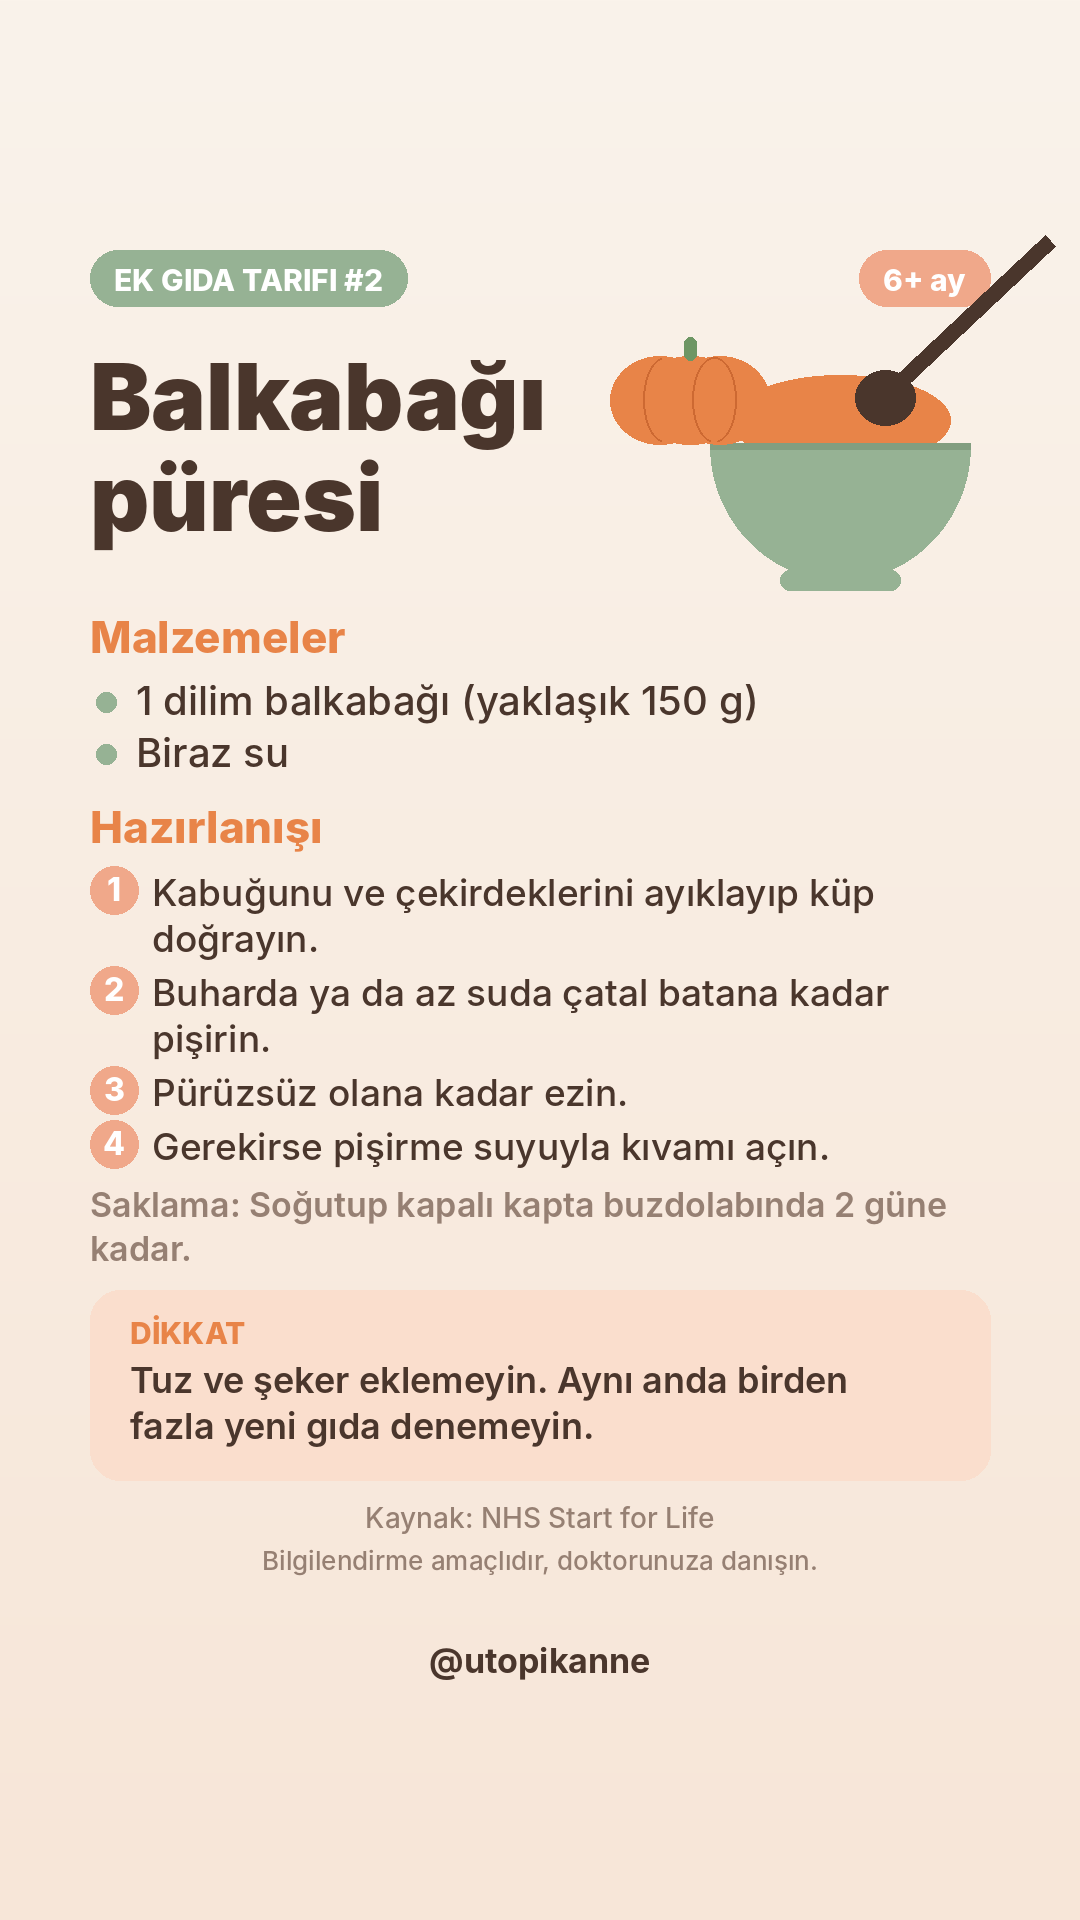
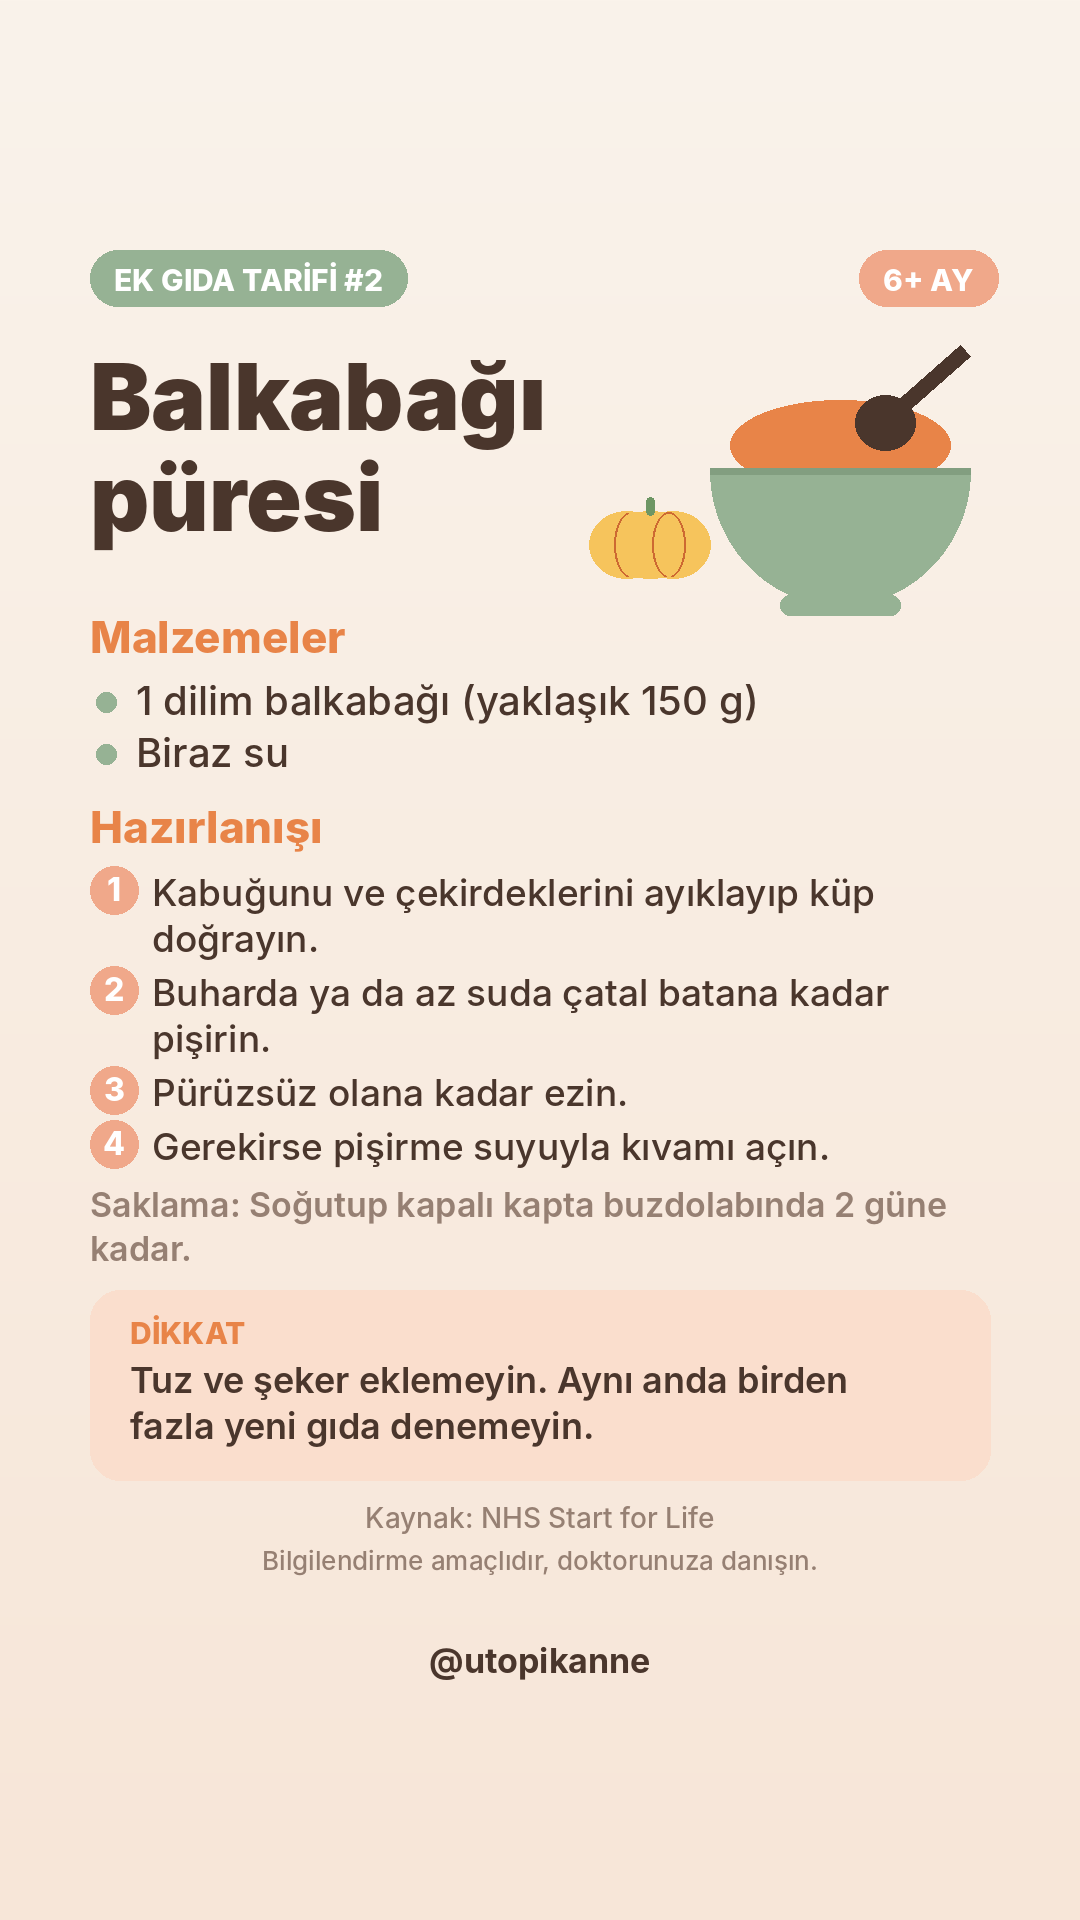
[utopikanne] kalite kontrol düzeltmeleri (Türkçe büyük harf, çizim, hitap)
Claude-Session: https://claude.ai/code/session_01QGX4XsoAgktVGkG1t26jL7

Changed region(s): [[0.55, 0.125, 0.9778, 0.3438]]

diff --git a/araclar/anne_story.py b/araclar/anne_story.py
@@ -105,7 +105,12 @@ def zemin(ust=KREM, alt=(246, 232, 220)):
     return img, d
 
 
+def tr_buyuk(t):
+    return t.replace("i", "İ").replace("ı", "I").upper()
+
+
 def etiket(d, x, y, text, bg=SEFTALI, fg=BEYAZ, s=30, center=False):
+    text = tr_buyuk(text)
     f = font("ExtraBold", s)
     w = d.textlength(text, font=f) + 48
     if center:
@@ -150,7 +155,7 @@ def kase(d, cx, cy, w=300, renk=ADACAYI, ici=TURUNCU):
     d.rectangle([cx - w / 2, cy + 13, cx + w / 2, cy + 19], fill=(130, 158, 128))
     d.rounded_rectangle([cx - 60, cy + 140, cx + 60, cy + 160], radius=10, fill=renk)
     # kaşık
-    d.line([(cx + 40, cy - 30), (cx + 210, cy - 190)], fill=KAHVE, width=16)
+    d.line([(cx + 40, cy - 30), (cx + 125, cy - 105)], fill=KAHVE, width=16)
     d.ellipse([cx + 15, cy - 60, cx + 75, cy - 5], fill=KAHVE)
 
 
@@ -164,7 +169,7 @@ def havuc(d, cx, cy, s=1.0):
 
 def balkabagi(d, cx, cy, s=1.0):
     for dx, ww in ((-55, 90), (55, 90), (0, 100)):
-        d.ellipse([cx + dx * s - ww * s, cy - 80 * s, cx + dx * s + ww * s, cy + 80 * s], fill=TURUNCU)
+        d.ellipse([cx + dx * s - ww * s, cy - 80 * s, cx + dx * s + ww * s, cy + 80 * s], fill=SARI)
     for dx in (-45, 45):
         d.arc([cx + dx * s - 40 * s, cy - 78 * s, cx + dx * s + 40 * s, cy + 78 * s], 100, 260 if dx < 0 else 440,
               fill=(205, 105, 50), width=int(5 * s))
@@ -230,13 +235,16 @@ def gunaydin(path, bilgi, kaynak, baslik="Günaydın"):
 
 def tarif_karti(path, seri, ay, baslik, malzemeler, adimlar, saklama, dikkat, kaynak, cizim="havuc"):
     img, d = zemin(KREM, (247, 230, 216))
-    etiket(d, 90, 250, seri.upper(), bg=ADACAYI)
+    etiket(d, 90, 250, seri, bg=ADACAYI)
     f = font("ExtraBold", 30)
     aw = d.textlength(ay, font=f) + 48
     etiket(d, 990 - aw, 250, ay, bg=SEFTALI)
     y = yaz(d, (90, 340), baslik, font("Black", 92), KAHVE, max_w=560, sp=1.1)
-    kase(d, 840, 430, w=260)
-    (havuc if cizim == "havuc" else balkabagi)(d, 690, 400, 0.55)
+    kase(d, 840, 455, w=260)
+    if cizim == "havuc":
+        havuc(d, 680, 430, 0.55)
+    else:
+        balkabagi(d, 650, 545, 0.42)
     y = max(y, 600) + 10
     # malzemeler
     d.text((90, y), "Malzemeler", font=font("ExtraBold", 44), fill=TURUNCU)
@@ -265,7 +273,7 @@ def tarif_karti(path, seri, ay, baslik, malzemeler, adimlar, saklama, dikkat, ka
 
 def hamilelik_haftasi(path, seri, hafta, boy, bilgi, ipucu, kaynak):
     img, d = zemin((248, 238, 232), (240, 222, 214))
-    etiket(d, 0, 250, seri.upper(), bg=ADACAYI, center=True)
+    etiket(d, 0, 250, seri, bg=ADACAYI, center=True)
     takvim(d, 540, 520, hafta, w=280)
     y = yaz(d, (0, 720), f"Hamileliğin {hafta}. haftası", font("Black", 74), KAHVE, center=True)
     y += 20
@@ -290,7 +298,7 @@ def hamilelik_haftasi(path, seri, hafta, boy, bilgi, ipucu, kaynak):
 
 def efsane_gercek(path, efsane, gercek, kaynak, seri=None):
     img, d = zemin(KREM, (244, 232, 222))
-    y = etiket(d, 0, 250, (seri or "EFSANE Mİ, GERÇEK Mİ?").upper(), bg=KAHVE, center=True)
+    y = etiket(d, 0, 250, (seri or "Efsane mi, gerçek mi?"), bg=KAHVE, center=True)
     y = yaz(d, (0, y + 40), "Efsane mi,\ngerçek mi?", font("Black", 96), KAHVE, center=True, sp=1.1) + 30
     # efsane kartı
     el = wrap(d, efsane, font("SemiBold", 44), 780)
@@ -317,7 +325,7 @@ def efsane_gercek(path, efsane, gercek, kaynak, seri=None):
 
 def kontrol_listesi(path, etiket_metni, baslik, maddeler, kaynak, numarali=False, not_metni=None):
     img, d = zemin(KREM, (238, 236, 222))
-    etiket(d, 0, 250, etiket_metni.upper(), bg=ADACAYI if not numarali else SEFTALI, center=True)
+    etiket(d, 0, 250, etiket_metni, bg=ADACAYI if not numarali else SEFTALI, center=True)
     y = yaz(d, (0, 345), baslik, font("Black", 78), KAHVE, center=True, max_w=900, sp=1.12) + 40
     for i, m in enumerate(maddeler, 1):
         lines = wrap(d, m, font("SemiBold", 42), 740)

diff --git a/hesaplar/utopikanne/ders_notlari.md b/hesaplar/utopikanne/ders_notlari.md
@@ -2,3 +2,4 @@
 - 2026-11-01: Şablon taşma assert'leri tarif kartı, DM ve iyi geceler kartında yakalandı; tarif adımları ≤ 45 karakter, iyi geceler bilgisi ≤ 3 satır tutulmalı. DM'de 4 kısa seçenek 2x2 ızgara.
 - 2026-11-01: Doğrulayıcı düzeltmeleri: AAP rutini "Brush, Book, Bed" (banyo değil); NHS 5. hafta sayfasında "nöral tüp" yok; NHS üzüm için "dörde bölün" (boyuna ifadesi yok), bütün kuruyemiş 5 yaş altı yok.
 - DM hikâyelerinde "sonuçları yarın paylaşalım" gibi ekibin yapamayacağı (DM'leri okuyamıyoruz) sözler verilmez.
+- 2026-11-01 (Kalite Kontrol): Python .upper() Türkçe değil ("TARIFI") → etiketlerde tr_buyuk(). Kaşık rozetin üstüne taşıyordu, balkabağı püreyle aynı renkti → düzeltildi. DM metinlerinde "siz" hitabı tutarlı olmalı. Elma sebze değil: "sebze ve meyveler".
